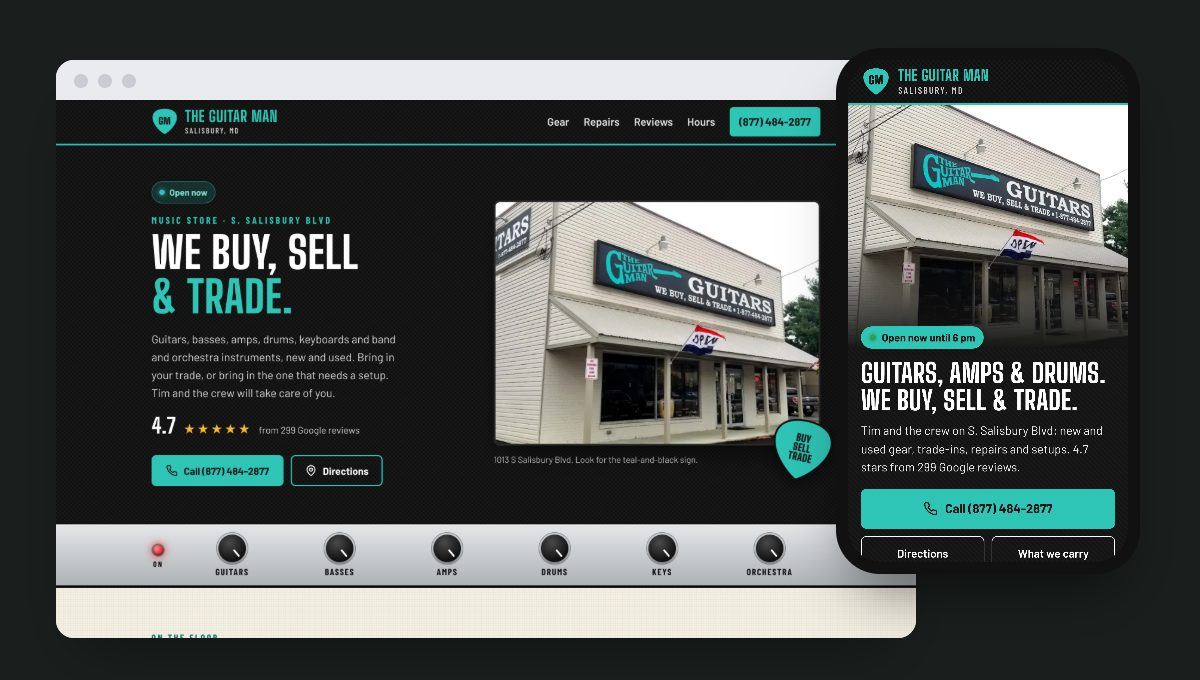
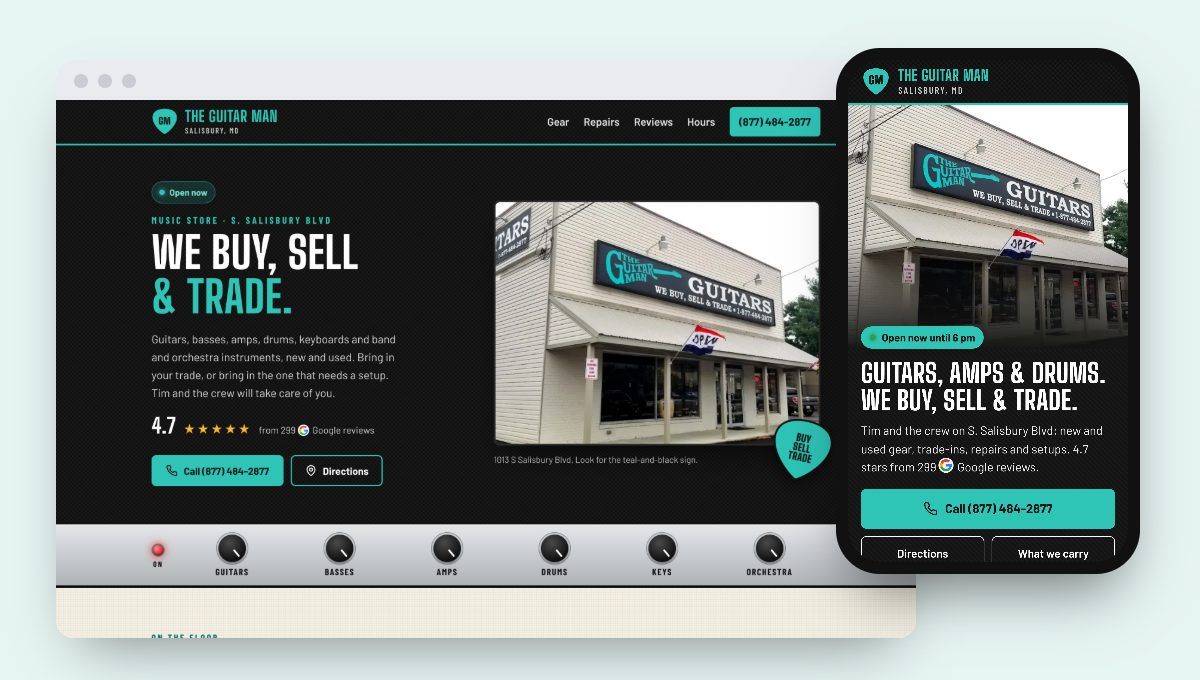
Google G: keep the word in the surrounding text style; refreshed email previews
Claude-Session: https://claude.ai/code/session_0122KwWJ4XgjrCLSEhtEihCr

Changed region(s): [[0.0, 0.0, 1.0, 1.0], [0.7708, 0.6794, 0.8633, 0.7103], [0.2467, 0.6176, 0.3083, 0.6485]]

diff --git a/michelles/index.html b/michelles/index.html
@@ -165,7 +165,9 @@ footer .wrap { display: flex; flex-wrap: wrap; justify-content: space-between; g
   @media (hover: hover) and (pointer: fine) { .brand:hover .brand-mark { animation: wag2 .9s ease-in-out both; } }
 }
 </style>
-<style id="polish">#visit .actions, #contact .actions { flex-wrap: wrap; } @media (max-width: 600px) { #visit .actions > *, #contact .actions > * { flex: 1 1 100%; justify-content: center; } } p, li { text-wrap: pretty; } footer a { white-space: nowrap; } @media (max-width: 700px) { .facts { gap: 14px; } .fact b { font-size: 1.05rem; } } .g-logo{width:1em;height:1em;display:inline-block;vertical-align:-0.14em;margin-right:.3em;flex:none} .g-nw{white-space:nowrap} .quotes .g-logo{background:#fff;border-radius:50%;padding:.12em;box-sizing:content-box;vertical-align:-0.26em} .item{display:grid;grid-template-columns:48px minmax(0,1fr);grid-template-rows:auto 1fr;column-gap:16px;align-items:start} .item-ico{grid-row:span 2;width:48px;height:48px;color:var(--navy);margin-top:2px} .item-ico .pk,.note-ico .pk,.fact-ico .pk{fill:var(--raspberry)} .item-ico .wh,.note-ico .wh,.fact-ico .wh{fill:#fff} .item-ico .lt,.fact-ico .lt{fill:#FBE3EB} .note{position:relative;padding-left:76px} .note-ico{position:absolute;left:20px;top:50%;transform:translateY(-50%);width:40px;height:40px;color:var(--navy)} .fact{display:grid;grid-template-columns:42px minmax(0,1fr);column-gap:14px;align-items:center} .fact-ico{grid-row:span 2;width:42px;height:42px;color:var(--navy)} @media (max-width: 700px) { .fact{display:block} .fact-ico{display:block;width:30px;height:30px;margin:0 0 6px} .item{grid-template-columns:40px minmax(0,1fr);column-gap:14px} .item-ico{width:40px;height:40px} .note{padding-left:68px} .note-ico{left:16px;width:36px;height:36px} }</style>
+<style id="polish">#visit .actions, #contact .actions { flex-wrap: wrap; } @media (max-width: 600px) { #visit .actions > *, #contact .actions > * { flex: 1 1 100%; justify-content: center; } } p, li { text-wrap: pretty; } footer a { white-space: nowrap; } @media (max-width: 700px) { .facts { gap: 14px; } .fact b { font-size: 1.05rem; } } .g-logo{width:1em;height:1em;display:inline-block;vertical-align:-0.14em;margin-right:.3em;flex:none} .g-nw{white-space:nowrap} .quotes .g-logo{background:#fff;border-radius:50%;padding:.12em;box-sizing:content-box;vertical-align:-0.26em} .item{display:grid;grid-template-columns:48px minmax(0,1fr);grid-template-rows:auto 1fr;column-gap:16px;align-items:start} .item-ico{grid-row:span 2;width:48px;height:48px;color:var(--navy);margin-top:2px} .item-ico .pk,.note-ico .pk,.fact-ico .pk{fill:var(--raspberry)} .item-ico .wh,.note-ico .wh,.fact-ico .wh{fill:#fff} .item-ico .lt,.fact-ico .lt{fill:#FBE3EB} .note{position:relative;padding-left:76px} .note-ico{position:absolute;left:20px;top:50%;transform:translateY(-50%);width:40px;height:40px;color:var(--navy)} .fact{display:grid;grid-template-columns:42px minmax(0,1fr);column-gap:14px;align-items:center} .fact-ico{grid-row:span 2;width:42px;height:42px;color:var(--navy)} @media (max-width: 700px) { .fact{display:block} .fact-ico{display:block;width:30px;height:30px;margin:0 0 6px} .item{grid-template-columns:40px minmax(0,1fr);column-gap:14px} .item-ico{width:40px;height:40px} .note{padding-left:68px} .note-ico{left:16px;width:36px;height:36px} }
+/* g-wrap-inherit */ .stars span.g-nw,.rating span.g-nw,.stars .g-nw,.rate span.g-nw{color:inherit;letter-spacing:inherit;font-size:inherit;font-weight:inherit;text-transform:inherit}
+</style>
 <!-- m-layer:css -->
 <style>
 /* Phone-first layer (<= 700px). Desktop is unchanged. */

diff --git a/guitarman/index.html b/guitarman/index.html
@@ -217,7 +217,9 @@ footer a { color: #fff; }
 <svg width="0" height="0" style="position:absolute" aria-hidden="true">
   <symbol id="pick" viewBox="0 0 100 104"><path d="M50 2C80 2 98 15 98 37C98 64 68 93 50 102C32 93 2 64 2 37C2 15 20 2 50 2Z" fill="#2EC4B6" stroke="#0E0E0E" stroke-width="3"/></symbol>
 </svg>
-<style id="polish">p, li { text-wrap: pretty; } footer a { white-space: nowrap; } #visit .actions, #contact .actions { flex-wrap: wrap; } @media (max-width: 600px) { #visit .actions > *, #contact .actions > * { flex: 1 1 100%; justify-content: center; } } .g-logo{width:1em;height:1em;display:inline-block;vertical-align:-0.14em;margin-right:.3em;flex:none} .g-nw{white-space:nowrap} .tolex .g-logo, .m-hero .g-logo{background:#fff;border-radius:50%;padding:.12em;box-sizing:content-box;vertical-align:-0.26em} .bench ul.svc-list li{align-items:center} .bench ul.svc-list li::before{content:none} .bench .li-ic{width:34px;height:36px;flex:none;filter:drop-shadow(0 2px 3px rgba(0,0,0,.45))} .perks li{display:inline-flex;align-items:center;gap:7px} .perks .pk-ic{width:18px;height:18px;flex:none;color:var(--teal-dk)} @media (prefers-reduced-motion: no-preference){ .bench ul.svc-list.ic-ready .li-ic{opacity:0;transform:translateY(6px) rotate(-12deg)} .bench ul.svc-list.ic-in .li-ic{opacity:1;transform:none;transition:opacity .4s ease,transform .5s cubic-bezier(.3,1.4,.5,1)} .bench ul.svc-list.ic-in li:nth-child(2) .li-ic{transition-delay:.08s} .bench ul.svc-list.ic-in li:nth-child(3) .li-ic{transition-delay:.16s} .bench ul.svc-list.ic-in li:nth-child(4) .li-ic{transition-delay:.24s} }</style>
+<style id="polish">p, li { text-wrap: pretty; } footer a { white-space: nowrap; } #visit .actions, #contact .actions { flex-wrap: wrap; } @media (max-width: 600px) { #visit .actions > *, #contact .actions > * { flex: 1 1 100%; justify-content: center; } } .g-logo{width:1em;height:1em;display:inline-block;vertical-align:-0.14em;margin-right:.3em;flex:none} .g-nw{white-space:nowrap} .tolex .g-logo, .m-hero .g-logo{background:#fff;border-radius:50%;padding:.12em;box-sizing:content-box;vertical-align:-0.26em} .bench ul.svc-list li{align-items:center} .bench ul.svc-list li::before{content:none} .bench .li-ic{width:34px;height:36px;flex:none;filter:drop-shadow(0 2px 3px rgba(0,0,0,.45))} .perks li{display:inline-flex;align-items:center;gap:7px} .perks .pk-ic{width:18px;height:18px;flex:none;color:var(--teal-dk)} @media (prefers-reduced-motion: no-preference){ .bench ul.svc-list.ic-ready .li-ic{opacity:0;transform:translateY(6px) rotate(-12deg)} .bench ul.svc-list.ic-in .li-ic{opacity:1;transform:none;transition:opacity .4s ease,transform .5s cubic-bezier(.3,1.4,.5,1)} .bench ul.svc-list.ic-in li:nth-child(2) .li-ic{transition-delay:.08s} .bench ul.svc-list.ic-in li:nth-child(3) .li-ic{transition-delay:.16s} .bench ul.svc-list.ic-in li:nth-child(4) .li-ic{transition-delay:.24s} }
+/* g-wrap-inherit */ .stars span.g-nw,.rating span.g-nw,.stars .g-nw,.rate span.g-nw{color:inherit;letter-spacing:inherit;font-size:inherit;font-weight:inherit;text-transform:inherit}
+</style>
 <!-- m-layer:css -->
 <style>
 /* Phone-first layer (<= 700px). Desktop is unchanged. */

diff --git a/frankantion/index.html b/frankantion/index.html
@@ -163,7 +163,9 @@ footer a { color: var(--manila); }
   @media (hover: hover) and (pointer: fine) { .js-ticks .checklist.in li:hover .tick path { animation: tick-redraw .38s cubic-bezier(.5,0,.3,1); } }
 }
 </style>
-<style id="polish">#visit .actions, #contact .actions { flex-wrap: wrap; } @media (max-width: 600px) { #visit .actions > *, #contact .actions > * { flex: 1 1 100%; justify-content: center; } } p, li { text-wrap: pretty; } footer a { white-space: nowrap; } :root { --orange: #B8500F; } @media (max-width: 700px) { .m-tagwrap .stamp { top: 12px; right: 12px; } } .g-logo{width:1em;height:1em;display:inline-block;vertical-align:-0.14em;margin-right:.3em;flex:none} .g-nw{white-space:nowrap} .fa-ico .fg{fill:var(--green)} .fa-ico .fo{fill:var(--orange)} .fa-ico .fi{fill:var(--ink)} .fa-ico .fm{fill:var(--manila)} .machines li{align-items:center} .mach-ico{flex:none;width:60px;height:38px} .strip .wrap > div{display:grid;grid-template-columns:52px minmax(0,1fr);column-gap:14px;align-items:center} .strip-ico{grid-row:span 2;width:52px;height:40px;justify-self:center} .strip .g-logo.strip-ico{width:28px;height:28px;padding:6px;margin:0;background:#fff;border-radius:50%;box-sizing:content-box;vertical-align:0} .why-ico{display:block;width:44px;height:44px;margin:0 0 10px} @media (max-width: 700px) { .mach-ico{width:52px;height:33px} .strip .wrap > div{grid-template-columns:46px minmax(0,1fr)} .strip-ico{width:46px;height:36px} .strip .g-logo.strip-ico{width:24px;height:24px} }</style>
+<style id="polish">#visit .actions, #contact .actions { flex-wrap: wrap; } @media (max-width: 600px) { #visit .actions > *, #contact .actions > * { flex: 1 1 100%; justify-content: center; } } p, li { text-wrap: pretty; } footer a { white-space: nowrap; } :root { --orange: #B8500F; } @media (max-width: 700px) { .m-tagwrap .stamp { top: 12px; right: 12px; } } .g-logo{width:1em;height:1em;display:inline-block;vertical-align:-0.14em;margin-right:.3em;flex:none} .g-nw{white-space:nowrap} .fa-ico .fg{fill:var(--green)} .fa-ico .fo{fill:var(--orange)} .fa-ico .fi{fill:var(--ink)} .fa-ico .fm{fill:var(--manila)} .machines li{align-items:center} .mach-ico{flex:none;width:60px;height:38px} .strip .wrap > div{display:grid;grid-template-columns:52px minmax(0,1fr);column-gap:14px;align-items:center} .strip-ico{grid-row:span 2;width:52px;height:40px;justify-self:center} .strip .g-logo.strip-ico{width:28px;height:28px;padding:6px;margin:0;background:#fff;border-radius:50%;box-sizing:content-box;vertical-align:0} .why-ico{display:block;width:44px;height:44px;margin:0 0 10px} @media (max-width: 700px) { .mach-ico{width:52px;height:33px} .strip .wrap > div{grid-template-columns:46px minmax(0,1fr)} .strip-ico{width:46px;height:36px} .strip .g-logo.strip-ico{width:24px;height:24px} }
+/* g-wrap-inherit */ .stars span.g-nw,.rating span.g-nw,.stars .g-nw,.rate span.g-nw{color:inherit;letter-spacing:inherit;font-size:inherit;font-weight:inherit;text-transform:inherit}
+</style>
 <!-- m-layer:css -->
 <style>
 /* Phone-first layer (<= 700px). Desktop is unchanged. */

diff --git a/grants/index.html b/grants/index.html
@@ -175,7 +175,9 @@ footer a { color: #fff; }
   .top .diamond { animation: sign-settle 1.4s cubic-bezier(.3,.7,.4,1) .3s both; }
 }
 </style>
-<style id="polish">#visit .actions, #contact .actions { flex-wrap: wrap; } @media (max-width: 600px) { #visit .actions > *, #contact .actions > * { flex: 1 1 100%; justify-content: center; } } p, li { text-wrap: pretty; } footer a { white-space: nowrap; } .hero-photo img { object-position: 85% 50%; } @media (max-width: 700px) { .visit .actions .btn { flex: 1 1 100%; justify-content: center; } } .svc { --acc: var(--blue); } .svc.red { --acc: var(--red); } .svc.yel { --acc: var(--sign-dk); } .svc-ico { display: block; width: 48px; height: 40px; color: var(--navy); margin-bottom: 12px; overflow: visible; } .bay { --acc: var(--sign); } .bay span { display: inline-flex; align-items: center; gap: .5em; } .bay span + span::before { content: none; } .bay-ico { width: 1.55em; height: 1.35em; color: var(--sign); flex: none; } @media (max-width: 600px) { .bay span { justify-content: center; } } @media (prefers-reduced-motion: no-preference) { .svc-ico { animation: svc-in .6s ease-out both; animation-timeline: view(); animation-range: entry 0% entry 60%; } @keyframes svc-in { from { opacity: 0; translate: 0 8px; } } } .g-logo{width:1em;height:1em;display:inline-block;vertical-align:-0.14em;margin-right:.3em;flex:none} span.g-nw{white-space:nowrap;color:inherit;letter-spacing:inherit;font-size:inherit}</style>
+<style id="polish">#visit .actions, #contact .actions { flex-wrap: wrap; } @media (max-width: 600px) { #visit .actions > *, #contact .actions > * { flex: 1 1 100%; justify-content: center; } } p, li { text-wrap: pretty; } footer a { white-space: nowrap; } .hero-photo img { object-position: 85% 50%; } @media (max-width: 700px) { .visit .actions .btn { flex: 1 1 100%; justify-content: center; } } .svc { --acc: var(--blue); } .svc.red { --acc: var(--red); } .svc.yel { --acc: var(--sign-dk); } .svc-ico { display: block; width: 48px; height: 40px; color: var(--navy); margin-bottom: 12px; overflow: visible; } .bay { --acc: var(--sign); } .bay span { display: inline-flex; align-items: center; gap: .5em; } .bay span + span::before { content: none; } .bay-ico { width: 1.55em; height: 1.35em; color: var(--sign); flex: none; } @media (max-width: 600px) { .bay span { justify-content: center; } } @media (prefers-reduced-motion: no-preference) { .svc-ico { animation: svc-in .6s ease-out both; animation-timeline: view(); animation-range: entry 0% entry 60%; } @keyframes svc-in { from { opacity: 0; translate: 0 8px; } } } .g-logo{width:1em;height:1em;display:inline-block;vertical-align:-0.14em;margin-right:.3em;flex:none} span.g-nw{white-space:nowrap;color:inherit;letter-spacing:inherit;font-size:inherit}
+/* g-wrap-inherit */ .stars span.g-nw,.rating span.g-nw,.stars .g-nw,.rate span.g-nw{color:inherit;letter-spacing:inherit;font-size:inherit;font-weight:inherit;text-transform:inherit}
+</style>
 <!-- m-layer:css -->
 <style>
 /* Phone-first layer (<= 700px). Desktop is unchanged. */

diff --git a/garcias/index.html b/garcias/index.html
@@ -180,7 +180,9 @@ footer a { color: var(--sign); }
   .tire { animation: tire-roll 1.25s cubic-bezier(.2,.65,.3,1) .35s both; }
 }
 </style>
-<style id="polish">#visit .actions, #contact .actions { flex-wrap: wrap; } @media (max-width: 600px) { #visit .actions > *, #contact .actions > * { flex: 1 1 100%; justify-content: center; } } p, li { text-wrap: pretty; } footer a { white-space: nowrap; } img[src='img/gts_1.webp'] { object-position: 50% 0 !important; } .shopshot .sticker span { color: inherit; opacity: .85; } .g-logo{width:1em;height:1em;display:inline-block;vertical-align:-0.14em;margin-right:.3em;flex:none} .g-nw{white-space:nowrap} .reviews .g-logo{background:#fff;border-radius:50%;padding:.12em;box-sizing:content-box;vertical-align:-0.26em} .reviews h2 .g-logo{width:.82em;height:.82em;padding:.09em;vertical-align:-0.1em} .svc-ico{display:block;width:40px;height:40px;margin:0 0 12px;color:var(--ink);transition:color .18s ease} .svc-ico .acc{fill:var(--sign)} .svc.feature .svc-ico{color:var(--paper)} @media (hover: hover) and (pointer: fine) { .svcs:hover .svc.feature:not(:hover) .svc-ico { color: var(--ink); } .svc:hover .svc-ico { color: var(--paper); } } @media (prefers-reduced-motion: reduce) { .svc-ico { transition: none; } } @media (max-width: 700px) { .svc-ico { width: 34px; height: 34px; margin-bottom: 10px; } }</style>
+<style id="polish">#visit .actions, #contact .actions { flex-wrap: wrap; } @media (max-width: 600px) { #visit .actions > *, #contact .actions > * { flex: 1 1 100%; justify-content: center; } } p, li { text-wrap: pretty; } footer a { white-space: nowrap; } img[src='img/gts_1.webp'] { object-position: 50% 0 !important; } .shopshot .sticker span { color: inherit; opacity: .85; } .g-logo{width:1em;height:1em;display:inline-block;vertical-align:-0.14em;margin-right:.3em;flex:none} .g-nw{white-space:nowrap} .reviews .g-logo{background:#fff;border-radius:50%;padding:.12em;box-sizing:content-box;vertical-align:-0.26em} .reviews h2 .g-logo{width:.82em;height:.82em;padding:.09em;vertical-align:-0.1em} .svc-ico{display:block;width:40px;height:40px;margin:0 0 12px;color:var(--ink);transition:color .18s ease} .svc-ico .acc{fill:var(--sign)} .svc.feature .svc-ico{color:var(--paper)} @media (hover: hover) and (pointer: fine) { .svcs:hover .svc.feature:not(:hover) .svc-ico { color: var(--ink); } .svc:hover .svc-ico { color: var(--paper); } } @media (prefers-reduced-motion: reduce) { .svc-ico { transition: none; } } @media (max-width: 700px) { .svc-ico { width: 34px; height: 34px; margin-bottom: 10px; } }
+/* g-wrap-inherit */ .stars span.g-nw,.rating span.g-nw,.stars .g-nw,.rate span.g-nw{color:inherit;letter-spacing:inherit;font-size:inherit;font-weight:inherit;text-transform:inherit}
+</style>
 <!-- m-layer:css -->
 <style>
 /* Phone-first layer (<= 700px). Desktop is unchanged. */

diff --git a/cathys/index.html b/cathys/index.html
@@ -149,7 +149,9 @@ footer a { color: #fff; }
   @keyframes dog-tilt-again { 0%, 100% { rotate: 0deg; } 20% { rotate: -14deg; } 40% { rotate: 8deg; } 60% { rotate: -10deg; } 80% { rotate: 4deg; } }
 }
 </style>
-<style id="polish">#visit .actions, #contact .actions { flex-wrap: wrap; } @media (max-width: 600px) { #visit .actions > *, #contact .actions > * { flex: 1 1 100%; justify-content: center; } } p, li { text-wrap: pretty; } footer a { white-space: nowrap; } :root { --pink: #C93F79; } .hero-pics .b { right: -10px; bottom: -14px; width: 46%; height: 50%; } .tub { position: relative; } .tub-ico { position: absolute; top: 20px; right: 20px; width: 52px; height: 52px; padding: 8px; border-radius: 50%; background: #E5F4F3; color: var(--teal-dk); box-sizing: border-box; } .addons { display: flex; gap: 12px; align-items: flex-start; } .addon-ico { width: 30px; height: 30px; flex: none; color: var(--teal-dk); margin-top: -1px; } @media (prefers-reduced-motion: no-preference) { .tub-ico { animation: tub-in .6s ease-out both; animation-timeline: view(); animation-range: entry 0% entry 60%; } @keyframes tub-in { from { opacity: 0; scale: .85; } } } .g-logo{width:1em;height:1em;display:inline-block;vertical-align:-0.14em;margin-right:.3em;flex:none} span.g-nw{white-space:nowrap;color:inherit;letter-spacing:inherit;font-size:inherit}</style>
+<style id="polish">#visit .actions, #contact .actions { flex-wrap: wrap; } @media (max-width: 600px) { #visit .actions > *, #contact .actions > * { flex: 1 1 100%; justify-content: center; } } p, li { text-wrap: pretty; } footer a { white-space: nowrap; } :root { --pink: #C93F79; } .hero-pics .b { right: -10px; bottom: -14px; width: 46%; height: 50%; } .tub { position: relative; } .tub-ico { position: absolute; top: 20px; right: 20px; width: 52px; height: 52px; padding: 8px; border-radius: 50%; background: #E5F4F3; color: var(--teal-dk); box-sizing: border-box; } .addons { display: flex; gap: 12px; align-items: flex-start; } .addon-ico { width: 30px; height: 30px; flex: none; color: var(--teal-dk); margin-top: -1px; } @media (prefers-reduced-motion: no-preference) { .tub-ico { animation: tub-in .6s ease-out both; animation-timeline: view(); animation-range: entry 0% entry 60%; } @keyframes tub-in { from { opacity: 0; scale: .85; } } } .g-logo{width:1em;height:1em;display:inline-block;vertical-align:-0.14em;margin-right:.3em;flex:none} span.g-nw{white-space:nowrap;color:inherit;letter-spacing:inherit;font-size:inherit}
+/* g-wrap-inherit */ .stars span.g-nw,.rating span.g-nw,.stars .g-nw,.rate span.g-nw{color:inherit;letter-spacing:inherit;font-size:inherit;font-weight:inherit;text-transform:inherit}
+</style>
 <!-- m-layer:css -->
 <style>
 /* Phone-first layer (<= 700px). Desktop is unchanged. */

diff --git a/jackies/index.html b/jackies/index.html
@@ -211,7 +211,9 @@ footer a { color: #fff; }
     </g>
   </symbol>
 </svg>
-<style id="polish">p, li { text-wrap: pretty; } footer a { white-space: nowrap; } #visit .actions, #contact .actions { flex-wrap: wrap; } @media (max-width: 600px) { #visit .actions > *, #contact .actions > * { flex: 1 1 100%; justify-content: center; } } .g-logo{width:1em;height:1em;display:inline-block;vertical-align:-0.14em;margin-right:.3em;flex:none} .g-nw{white-space:nowrap} .since .g-logo{background:#fff;border-radius:50%;padding:.12em;box-sizing:content-box;vertical-align:-0.26em} .place svg.pi{width:54px;height:54px;margin:0 0 12px;padding:0;display:block;color:inherit;overflow:visible} @media (prefers-reduced-motion: no-preference){ .cards.pi-ready .pi{opacity:0;transform:translateY(6px) scale(.9)} .cards.pi-in .pi{opacity:1;transform:none;transition:opacity .5s ease,transform .6s cubic-bezier(.3,1.3,.5,1)} .cards.pi-in .place:nth-child(2) .pi{transition-delay:.1s} .cards.pi-in .place:nth-child(3) .pi{transition-delay:.2s} .cards.pi-in .place:nth-child(4) .pi{transition-delay:.3s} }</style>
+<style id="polish">p, li { text-wrap: pretty; } footer a { white-space: nowrap; } #visit .actions, #contact .actions { flex-wrap: wrap; } @media (max-width: 600px) { #visit .actions > *, #contact .actions > * { flex: 1 1 100%; justify-content: center; } } .g-logo{width:1em;height:1em;display:inline-block;vertical-align:-0.14em;margin-right:.3em;flex:none} .g-nw{white-space:nowrap} .since .g-logo{background:#fff;border-radius:50%;padding:.12em;box-sizing:content-box;vertical-align:-0.26em} .place svg.pi{width:54px;height:54px;margin:0 0 12px;padding:0;display:block;color:inherit;overflow:visible} @media (prefers-reduced-motion: no-preference){ .cards.pi-ready .pi{opacity:0;transform:translateY(6px) scale(.9)} .cards.pi-in .pi{opacity:1;transform:none;transition:opacity .5s ease,transform .6s cubic-bezier(.3,1.3,.5,1)} .cards.pi-in .place:nth-child(2) .pi{transition-delay:.1s} .cards.pi-in .place:nth-child(3) .pi{transition-delay:.2s} .cards.pi-in .place:nth-child(4) .pi{transition-delay:.3s} }
+/* g-wrap-inherit */ .stars span.g-nw,.rating span.g-nw,.stars .g-nw,.rate span.g-nw{color:inherit;letter-spacing:inherit;font-size:inherit;font-weight:inherit;text-transform:inherit}
+</style>
 <style id="sig-anim">
 /* Signature: the wax seals press in once on load (drop, squash, settle). */
 @keyframes sealpress {

diff --git a/upholsterydoctor/index.html b/upholsterydoctor/index.html
@@ -194,7 +194,9 @@ footer a { color: var(--brass-hi); }
   .js-seam .seam.in .needle { opacity: 1; animation: needle-stitch .24s ease-in-out 8, needle-away .35s ease 1.9s forwards; }
 }
 </style>
-<style id="polish">#visit .actions, #contact .actions { flex-wrap: wrap; } @media (max-width: 600px) { #visit .actions > *, #contact .actions > * { flex: 1 1 100%; justify-content: center; } } p, li { text-wrap: pretty; } footer a { white-space: nowrap; }  .g-logo{width:1em;height:1em;display:inline-block;vertical-align:-0.14em;margin-right:.3em;flex:none} .g-nw{white-space:nowrap} .svc-ico{display:block;width:44px;height:44px;margin:0 0 12px;color:var(--oxblood)} .svc-ico .br{fill:var(--brass-hi)} .svc-ico .pp{fill:var(--paper)} .proof-ico{width:20px;height:20px;vertical-align:-4px;margin-right:7px;color:var(--oxblood)} .extras li{display:inline-flex;align-items:center;gap:8px} .ex-ico{width:20px;height:20px;flex:none;color:var(--oxblood)} @media (max-width: 700px) { .svc-ico{width:38px;height:38px;margin-bottom:10px} .proof-ico{width:18px;height:18px;margin-right:6px} }</style>
+<style id="polish">#visit .actions, #contact .actions { flex-wrap: wrap; } @media (max-width: 600px) { #visit .actions > *, #contact .actions > * { flex: 1 1 100%; justify-content: center; } } p, li { text-wrap: pretty; } footer a { white-space: nowrap; }  .g-logo{width:1em;height:1em;display:inline-block;vertical-align:-0.14em;margin-right:.3em;flex:none} .g-nw{white-space:nowrap} .svc-ico{display:block;width:44px;height:44px;margin:0 0 12px;color:var(--oxblood)} .svc-ico .br{fill:var(--brass-hi)} .svc-ico .pp{fill:var(--paper)} .proof-ico{width:20px;height:20px;vertical-align:-4px;margin-right:7px;color:var(--oxblood)} .extras li{display:inline-flex;align-items:center;gap:8px} .ex-ico{width:20px;height:20px;flex:none;color:var(--oxblood)} @media (max-width: 700px) { .svc-ico{width:38px;height:38px;margin-bottom:10px} .proof-ico{width:18px;height:18px;margin-right:6px} }
+/* g-wrap-inherit */ .stars span.g-nw,.rating span.g-nw,.stars .g-nw,.rate span.g-nw{color:inherit;letter-spacing:inherit;font-size:inherit;font-weight:inherit;text-transform:inherit}
+</style>
 <!-- m-layer:css -->
 <style>
 /* Phone-first layer (<= 700px). Desktop is unchanged. */

diff --git a/nicholstrees/index.html b/nicholstrees/index.html
@@ -189,7 +189,9 @@ footer a { color: #fff; }
 }
 @media (prefers-reduced-motion: reduce) { html { scroll-behavior: auto; } }
 </style>
-<style id="polish">p, li { text-wrap: pretty; } footer a { white-space: nowrap; } #visit .actions, #contact .actions { flex-wrap: wrap; } @media (max-width: 600px) { #visit .actions > *, #contact .actions > * { flex: 1 1 100%; justify-content: center; } } .g-logo{width:1em;height:1em;display:inline-block;vertical-align:-0.14em;margin-right:.3em;flex:none} .g-w{white-space:nowrap} .reviews h2 .g-logo{background:#fff;border-radius:50%;padding:.12em;box-sizing:content-box;vertical-align:-.26em} .facts .f-ico{display:block;width:34px;height:34px;margin:0 auto 10px;color:var(--kraft)} .tags .t-ico{display:block;width:36px;height:36px;margin:0 0 12px;color:var(--pine)} .tags .tag.alert .t-ico{color:#fff} .stand li.ico{align-items:center} .stand li.ico::before{display:none} .stand .s-ico{width:30px;height:30px;flex:none;color:var(--pine)} .stand .s-ico .ac{stroke:var(--berry)}</style>
+<style id="polish">p, li { text-wrap: pretty; } footer a { white-space: nowrap; } #visit .actions, #contact .actions { flex-wrap: wrap; } @media (max-width: 600px) { #visit .actions > *, #contact .actions > * { flex: 1 1 100%; justify-content: center; } } .g-logo{width:1em;height:1em;display:inline-block;vertical-align:-0.14em;margin-right:.3em;flex:none} .g-w{white-space:nowrap} .reviews h2 .g-logo{background:#fff;border-radius:50%;padding:.12em;box-sizing:content-box;vertical-align:-.26em} .facts .f-ico{display:block;width:34px;height:34px;margin:0 auto 10px;color:var(--kraft)} .tags .t-ico{display:block;width:36px;height:36px;margin:0 0 12px;color:var(--pine)} .tags .tag.alert .t-ico{color:#fff} .stand li.ico{align-items:center} .stand li.ico::before{display:none} .stand .s-ico{width:30px;height:30px;flex:none;color:var(--pine)} .stand .s-ico .ac{stroke:var(--berry)}
+/* g-wrap-inherit */ .stars span.g-w,.rating span.g-w,.stars .g-w,.rate span.g-w{color:inherit;letter-spacing:inherit;font-size:inherit;font-weight:inherit;text-transform:inherit}
+</style>
 <style id="sig-anim">
 /* Signature: the kraft tree tags swing on their twine hole as they scroll into view, then settle. */
 @keyframes tagswing {

diff --git a/alexandersmarine/index.html b/alexandersmarine/index.html
@@ -176,7 +176,9 @@ footer .fl { display: inline-flex; align-items: center; gap: 10px; }
     <symbol id="f-s" viewBox="0 0 30 20"><rect x=".5" y=".5" width="29" height="19" fill="#fff" stroke="#9AA8B6"/><rect x="10" y="6.5" width="10" height="7" fill="#1F4FA0"/></symbol>
   </defs>
 </svg>
-<style id="polish">p, li { text-wrap: pretty; } footer a { white-space: nowrap; } #visit .actions, #contact .actions { flex-wrap: wrap; } @media (max-width: 600px) { #visit .actions > *, #contact .actions > * { flex: 1 1 100%; justify-content: center; } } .g-logo{width:1em;height:1em;display:inline-block;vertical-align:-0.14em;margin-right:.3em;flex:none} .g-w{white-space:nowrap} .rgrid figcaption .g-logo{background:#fff;border-radius:50%;padding:.12em;box-sizing:content-box;vertical-align:-.26em} .hoist .hi{display:inline-flex;align-items:center;gap:10px} .hoist .h-ico{width:30px;height:30px;flex:none;color:var(--rope)} @media (max-width:600px){.hoist .h-ico{width:28px;height:28px}}</style>
+<style id="polish">p, li { text-wrap: pretty; } footer a { white-space: nowrap; } #visit .actions, #contact .actions { flex-wrap: wrap; } @media (max-width: 600px) { #visit .actions > *, #contact .actions > * { flex: 1 1 100%; justify-content: center; } } .g-logo{width:1em;height:1em;display:inline-block;vertical-align:-0.14em;margin-right:.3em;flex:none} .g-w{white-space:nowrap} .rgrid figcaption .g-logo{background:#fff;border-radius:50%;padding:.12em;box-sizing:content-box;vertical-align:-.26em} .hoist .hi{display:inline-flex;align-items:center;gap:10px} .hoist .h-ico{width:30px;height:30px;flex:none;color:var(--rope)} @media (max-width:600px){.hoist .h-ico{width:28px;height:28px}}
+/* g-wrap-inherit */ .stars span.g-w,.rating span.g-w,.stars .g-w,.rate span.g-w{color:inherit;letter-spacing:inherit;font-size:inherit;font-weight:inherit;text-transform:inherit}
+</style>
 <style id="sig-anim">
 /* Signature: the A-M-S signal flags flutter once (header on load, hoist band when it scrolls into view). */
 @keyframes flutter {

diff --git a/keepsake/index.html b/keepsake/index.html
@@ -184,7 +184,9 @@ footer a { color: #fff; }
     </symbol>
   </defs>
 </svg>
-<style id="polish">p, li { text-wrap: pretty; } footer a { white-space: nowrap; } #visit .actions, #contact .actions { flex-wrap: wrap; } @media (max-width: 600px) { #visit .actions > *, #contact .actions > * { flex: 1 1 100%; justify-content: center; } } .g-logo{width:1em;height:1em;display:inline-block;vertical-align:-0.14em;margin-right:.3em;flex:none} .g-w{white-space:nowrap} .walltext .g-logo{background:#fff;border-radius:50%;padding:.12em;box-sizing:content-box;vertical-align:-.26em}</style>
+<style id="polish">p, li { text-wrap: pretty; } footer a { white-space: nowrap; } #visit .actions, #contact .actions { flex-wrap: wrap; } @media (max-width: 600px) { #visit .actions > *, #contact .actions > * { flex: 1 1 100%; justify-content: center; } } .g-logo{width:1em;height:1em;display:inline-block;vertical-align:-0.14em;margin-right:.3em;flex:none} .g-w{white-space:nowrap} .walltext .g-logo{background:#fff;border-radius:50%;padding:.12em;box-sizing:content-box;vertical-align:-.26em}
+/* g-wrap-inherit */ .stars span.g-w,.rating span.g-w,.stars .g-w,.rate span.g-w{color:inherit;letter-spacing:inherit;font-size:inherit;font-weight:inherit;text-transform:inherit}
+</style>
 <style id="sig-anim">
 /* Signature: frame-corner samples draw in from the mitre as they scroll into view. */
 @media (prefers-reduced-motion: no-preference) {

diff --git a/rrhandyman/index.html b/rrhandyman/index.html
@@ -146,7 +146,9 @@ footer a { color: #fff; }
   .tape { animation: tape-out 1.3s cubic-bezier(.2,.75,.25,1) .25s both; }
 }
 </style>
-<style id="polish">#visit .actions, #contact .actions { flex-wrap: wrap; } @media (max-width: 600px) { #visit .actions > *, #contact .actions > * { flex: 1 1 100%; justify-content: center; } } p, li { text-wrap: pretty; } footer a { white-space: nowrap; } .hero h1 { text-wrap: balance; } .g-logo{width:1em;height:1em;display:inline-block;vertical-align:-0.14em;margin-right:.3em;flex:none} span.g-nw{white-space:nowrap;color:inherit;letter-spacing:inherit;font-size:inherit}</style>
+<style id="polish">#visit .actions, #contact .actions { flex-wrap: wrap; } @media (max-width: 600px) { #visit .actions > *, #contact .actions > * { flex: 1 1 100%; justify-content: center; } } p, li { text-wrap: pretty; } footer a { white-space: nowrap; } .hero h1 { text-wrap: balance; } .g-logo{width:1em;height:1em;display:inline-block;vertical-align:-0.14em;margin-right:.3em;flex:none} span.g-nw{white-space:nowrap;color:inherit;letter-spacing:inherit;font-size:inherit}
+/* g-wrap-inherit */ .stars span.g-nw,.rating span.g-nw,.stars .g-nw,.rate span.g-nw{color:inherit;letter-spacing:inherit;font-size:inherit;font-weight:inherit;text-transform:inherit}
+</style>
 <!-- m-layer:css -->
 <style>
 /* Phone-first layer (<= 700px). Desktop is unchanged. */
